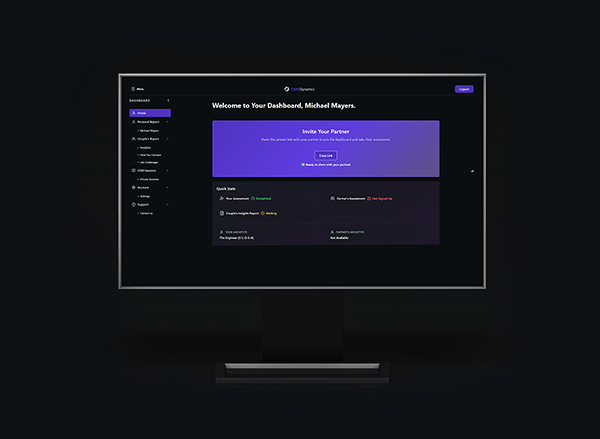
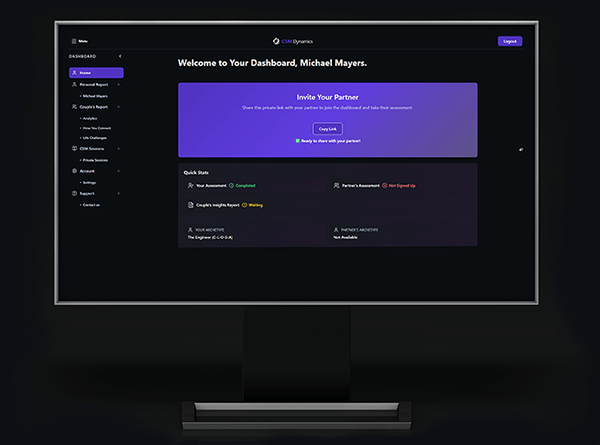
sales page layout updates

Changed region(s): [[0.09, 0.0296, 0.9, 0.7107], [0.3, 0.8292, 0.69, 0.9772], [0.54, 0.5034, 0.63, 0.5626]]

diff --git a/src/app/report/[typeCode]/couples/page.js b/src/app/report/[typeCode]/couples/page.js
@@ -11,14 +11,15 @@ import {
   MessageCircle,
   TrendingUp,
   Shield,
+  List,
   Star,
   ChevronDown,
   ChevronUp,
-  Play,
+  Scale,
   BarChart3,
   Target,
   Lock,
-  Award,
+  BookHeart,
   Clock,
   RefreshCw,
 } from "lucide-react";
@@ -200,7 +201,7 @@ export default function Sales() {
       {/* Hero Section */}
       <section id="home" className="pt-24 pb-0 md:pb-16 px-4">
         <div className="container mx-auto max-w-6xl">
-          <div className="grid lg:grid-cols-2 gap-0 md:gap-12 items-center">
+          <div className="grid md:grid-cols-1 lg:grid-cols-2 gap-0 md:gap-6 lg:gap-12 items-center">
             <div className="section-header">
               <div className="bg-[var(--accent)]/20 text-[var(--accent)] px-4 py-2 rounded-full inline-flex items-center mb-6">
                 <Star className="h-4 w-4 mr-2" />
@@ -225,7 +226,7 @@ export default function Sales() {
                 </button>
               </div>
             </div>
-            <div className="relative flex flex-col w-full h-96 bg-gradient-to-br from-[var(--primary)]/20 to-[var(--accent)]/20 rounded-lg overflow-hidden items-center justify-center mt-6">
+            <div className="relative flex flex-col w-full pb-8  bg-gradient-to-br from-[var(--primary)]/20 to-[var(--accent)]/20 rounded-lg overflow-hidden items-center justify-center mt-6">
               <img
                 src="/note.png"
                 className="w-full h-full object-contain md:object-cover lg:object-contain"
@@ -361,7 +362,7 @@ export default function Sales() {
       {/* What's Inside Section */}
       <section
         id="whats-inside"
-        className="pt-8 pb-12 sm:pt-12 sm:pb-16 md:pt-16 md:pb-20 lg:py-24 bg-gradient-to-b from-[var(--surface-variant)] to-[var(--surface)]"
+        className="pt-4 pb-12 sm:pb-16 md:pt-16 md:py-16 bg-gradient-to-b from-[var(--surface-variant)] to-[var(--surface)]"
       >
         <div className="max-w-7xl mx-auto px-4 sm:px-6 lg:px-8">
           <div className="text-center mb-8 sm:mb-12 md:mb-16">
@@ -584,10 +585,13 @@ export default function Sales() {
                   {[
                     { icon: Clock, text: "Lifetime Dashboard Access" },
                     { icon: BarChart3, text: "Visual Analytics & Charts" },
-                    { icon: Target, text: "10 Life Areas Analysis" },
+                    { icon: Target, text: "10 Life Areas Challenges" },
                     { icon: MessageCircle, text: "Free CSM Session" },
+                    { icon: List, text: "Compabitility Alignment Scores" },
+                    { icon: Users, text: "How You Connect Analysis" },
+                    { icon: BookHeart, text: "Personality Reports" },
+                    { icon: Scale, text: "Couple's Strengths and Weaknesses" },
                     { icon: RefreshCw, text: "14-Day Money-Back Guarantee" },
-                    { icon: Shield, text: "Secure & Private" },
                   ].map((feature, index) => (
                     <div key={index} className="flex items-center space-x-3">
                       <feature.icon className="h-5 w-5 text-[var(--accent)]" />
